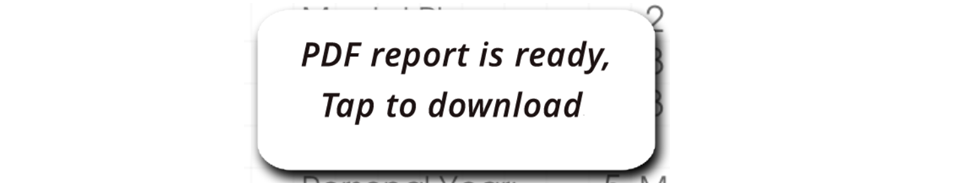
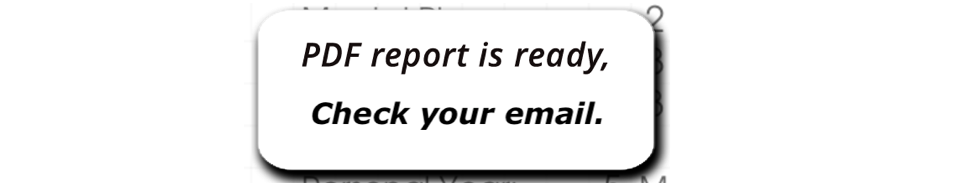
update delivery method

Changed region(s): [[0.25, 0.082, 0.7188, 1.0], [0.3125, 0.4918, 0.625, 0.7104]]

diff --git a/tutorial.js b/tutorial.js
@@ -14,7 +14,7 @@ tutorialCode+='<p>4. The Main menu is three stacked lines. Use it to search Cont
 tutorialCode+='</div>';
 tutorialCode+='<div class="col">';
 tutorialCode+='<img class="landscape" src="tutorial5.png" />';
-tutorialCode+='<p>5. Create a Report with the right context menu by tapping Report. The app will show progress uploading and then a tap to download message. The report downloads in a browser window on your device. The Summary report has the same process. </p>';
+tutorialCode+='<p>5. Create a Report with the right context menu by tapping Report. The app will show progress uploading and then a check email message. The report is sent to your email. The Summary report has the same process. </p>';
 tutorialCode+='<img class="landscape" src="tutorial6.png" />';
 tutorialCode+='<p>6. Tap the search icon or select Contacts from the main menu to enter search text to find a contact.  Tap the red search icon to start the search. Tap a name in the results list to view their information. </p>';
 tutorialCode+='<p>&copy;2016 Wes Hamilton</p>';

diff --git a/index.html b/index.html
@@ -2247,7 +2247,7 @@ function saveChunk(){
 
   var xhr = new XMLHttpRequest();
   xhr.onload = ajaxSuccess;
-  xhr.open( 'post', 'https://www.whatsmydestiny.com/destinyapp/whatsmydestiny/uploadpdf.php', true );
+  xhr.open( 'post', 'https://www.whatsmydestiny.com/destinyapp/uploadmaildeletepdf.php', true );
   xhr.send(data);
   }
 function ajaxSuccess(){
